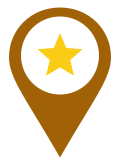
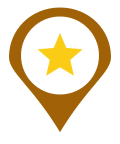
style: shorter pin tail
Tail now ends at 46 instead of 54.5 (viewBox 40x48), so it reads as a
teardrop without the long spike next to the 30pt circles. Render sizes
follow the new 5:6 ratio: 32x38 default, 38x46 selected.

diff --git a/app/search-results.tsx b/app/search-results.tsx
@@ -174,7 +174,7 @@ export default function SearchResultsScreen() {
         locale="ko"
         locationOverlay={{ isVisible: false }}
         initialCamera={{ latitude: 36.4, longitude: 127.8, zoom: 6 }}>
-        {/* 선택된 하나만 핀(5:7 물방울, 하단 앵커), 나머지는 원형 — 지도 탭과
+        {/* 선택된 하나만 핀(물방울, 하단 앵커), 나머지는 원형 — 지도 탭과
             같은 규칙이라 "핀 = 지금 보고 있는 곳"으로 읽힌다. */}
         {items.map((item) => {
           if (item.kind === 'place') {
@@ -186,7 +186,7 @@ export default function SearchResultsScreen() {
                 longitude={item.place.longitude}
                 anchor={isSelected ? { x: 0.5, y: 1 } : { x: 0.5, y: 0.5 }}
                 width={isSelected ? 38 : 30}
-                height={isSelected ? 53 : 30}
+                height={isSelected ? 46 : 30}
                 image={
                   isSelected
                     ? MARKER_IMAGES[item.place.category]

diff --git a/app/(tabs)/index.tsx b/app/(tabs)/index.tsx
@@ -446,7 +446,7 @@ export default function MapScreen() {
               // 클러스터 마커는 앵커 지정이 안 돼(ClusterMarkerProp) 하단 중앙 고정 —
               // 꼬리 끝이 좌표를 찍는 핀을 그대로 쓴다. 원형은 개별 마커 전용.
               width: 32,
-              height: 45,
+              height: 38,
             })),
     [captionMode, places, selectedPlaceId]
   );
@@ -573,7 +573,7 @@ export default function MapScreen() {
                 : MARKER_IMAGES[selectedPlace.category]
             }
             width={38}
-            height={53}
+            height={46}
             anchor={{ x: 0.5, y: 1 }}
             zIndex={100}
           />

diff --git a/components/map/TempPlaceMarker.tsx b/components/map/TempPlaceMarker.tsx
@@ -18,7 +18,7 @@ export default function TempPlaceMarker({ latitude, longitude, circle }: Props) 
       longitude={longitude}
       image={circle ? GENERAL_MARKER_CIRCLE : require('@/assets/images/markers/general.png')}
       width={circle ? 30 : 32}
-      height={circle ? 30 : 45}
+      height={circle ? 30 : 38}
       anchor={circle ? { x: 0.5, y: 0.5 } : { x: 0.5, y: 1 }}
       zIndex={90}
     />
